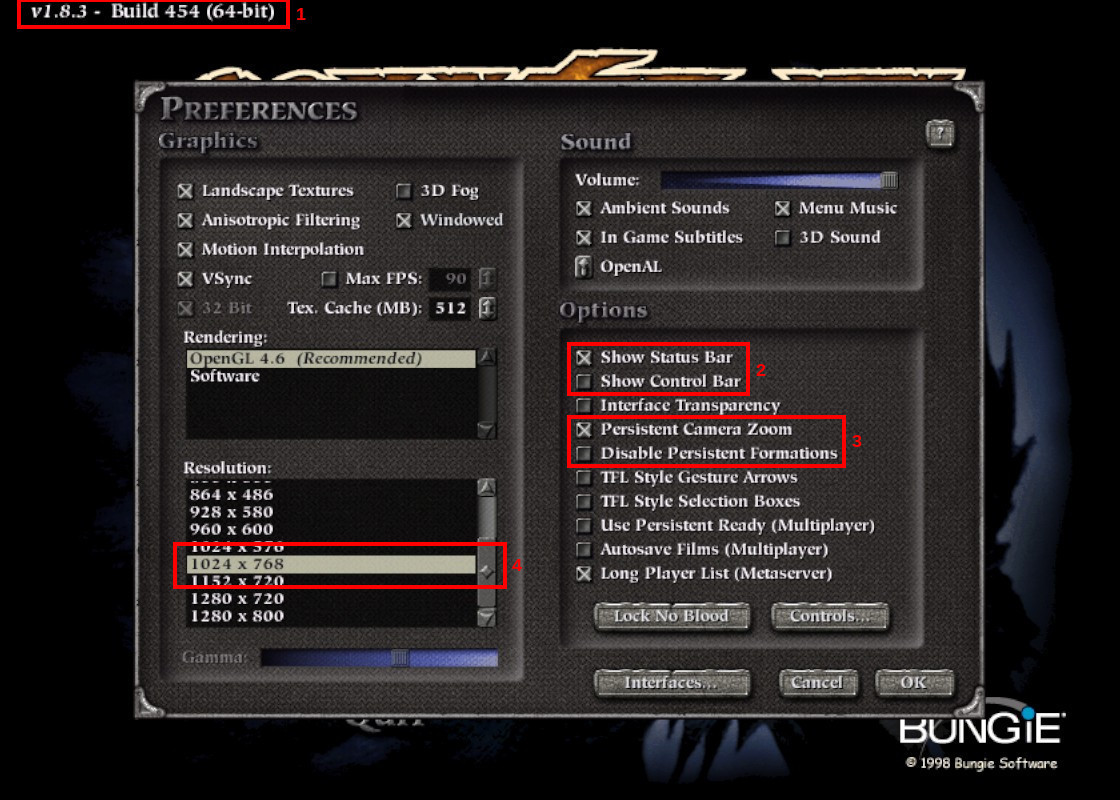
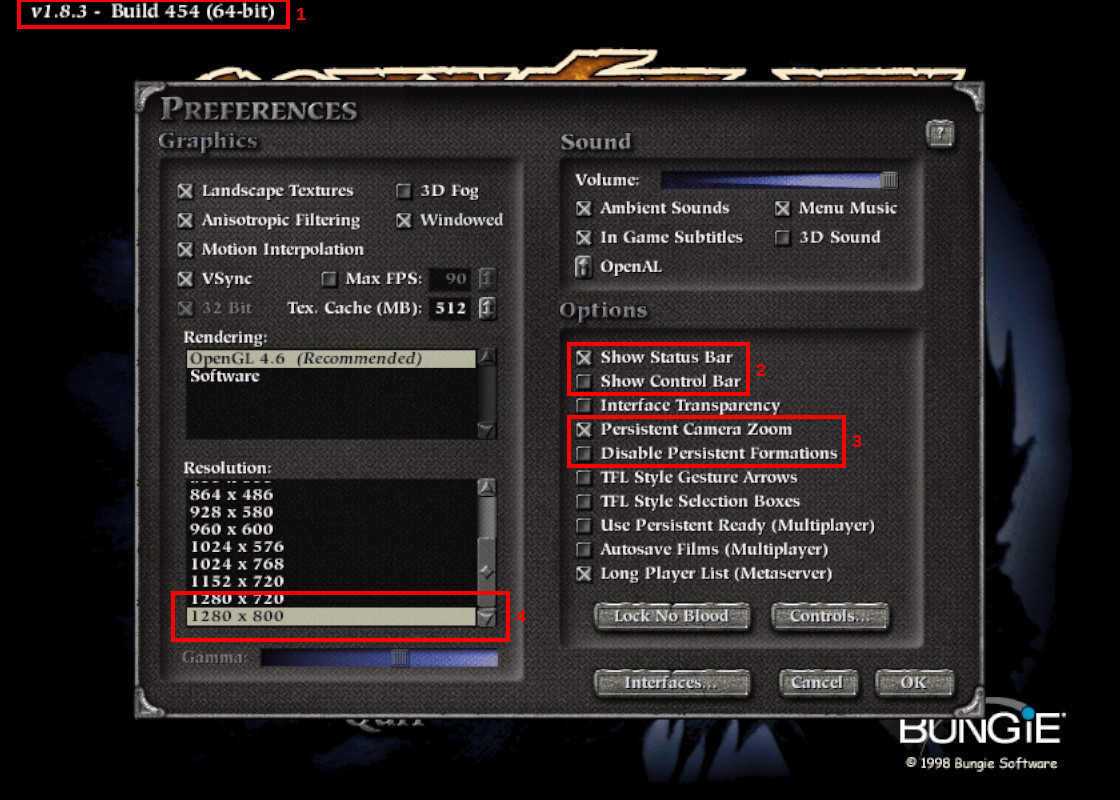
show a different selected resolution

Changed region(s): [[0.125, 0.6562, 0.4688, 0.8125]]

diff --git a/myth_config/preferences.rst b/myth_config/preferences.rst
@@ -18,6 +18,6 @@ In the box marked **2** I've disabled the "control bar", which is a piece of UI 
 
 In the box marked **3**, note that I've enabled persistent camera zoom. I always just want to leave the camera at max zoom anyway, so this way I don't have to fix it at the start of every mission. I also left persistent formations enabled; I tend to keep the same formation for a given group of units, and not having to re-select it all the time is very nice. Both of these "persistences" have some limitations -- some in-game cutscenes will reset zoom to default, and you lose any current persisted formations when you reload a savegame -- but they're still a big help.
 
-And finally, as noted in **4**, you can change the resolution if you like. Running at lower resolutions has the advantage of making enemy "dots" more visible on the overhead map, but at the expense of image quality. Try different resolutions to see what you like, but note that the native Deck screen resolution maxes out at 1280x800.
+And finally, as noted in **4**, you can set the resolution. Running at lower resolutions has the advantage of making enemy "dots" more visible on the overhead map, but at the expense of image quality. Try different resolutions to see what you like, but the native Deck screen resolution maxes out at 1280x800.
 
 Next, click on the "Controls" button...
